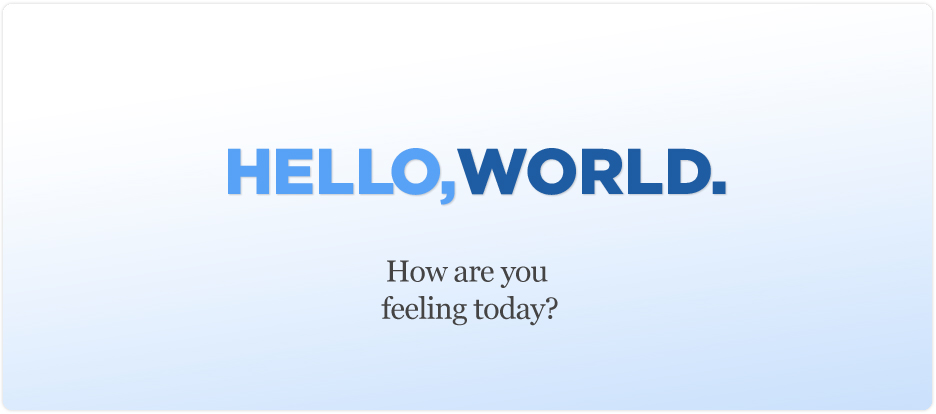
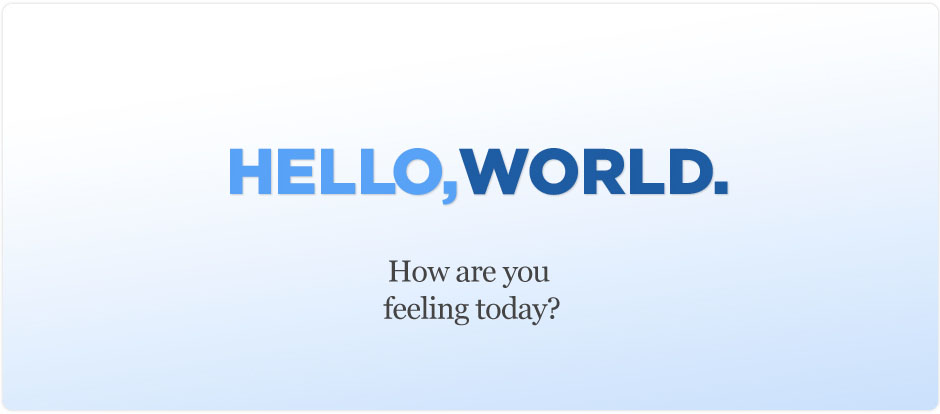
login and register

diff --git a/public/stylesheets/main.css b/public/stylesheets/main.css
@@ -22,12 +22,12 @@ p {
 /********************************************************************/
 
 a {
-	color: #f00;
-	text-decoration: underline;
+        color:#4e9afa;
+	text-decoration: none;
 }
 
 a:hover {
-	text-decoration: none;
+	text-decoration: underline;
 }
 
 a img, img a { 
@@ -119,7 +119,7 @@ a img, img a {
 }
 
 #login-visual {
-    width: 936px;
+    width: 940px;
     margin: 0 auto;
 }
 
@@ -440,6 +440,22 @@ li.submit-blue input:hover {
     color: #333;
 }
 
+.default-form input[type="submit"] {
+        display:block;
+	padding: 5px 20px;
+	background: transparent url(img/btn-blue.png) repeat-x;
+	font-size: 1.2em;
+	color:#fff;
+	text-decoration: none;
+	-moz-border-radius: 5px;
+	-webkit-border-radius: 5px;
+	text-shadow: #333 1px 1px 1px;
+        border: 1px solid #55a0fb;
+}
+
+.default-form input[type="submit"]:hover {
+    color:#222;
+}
 
 /********************************************************************/
 /* PROFILE */
